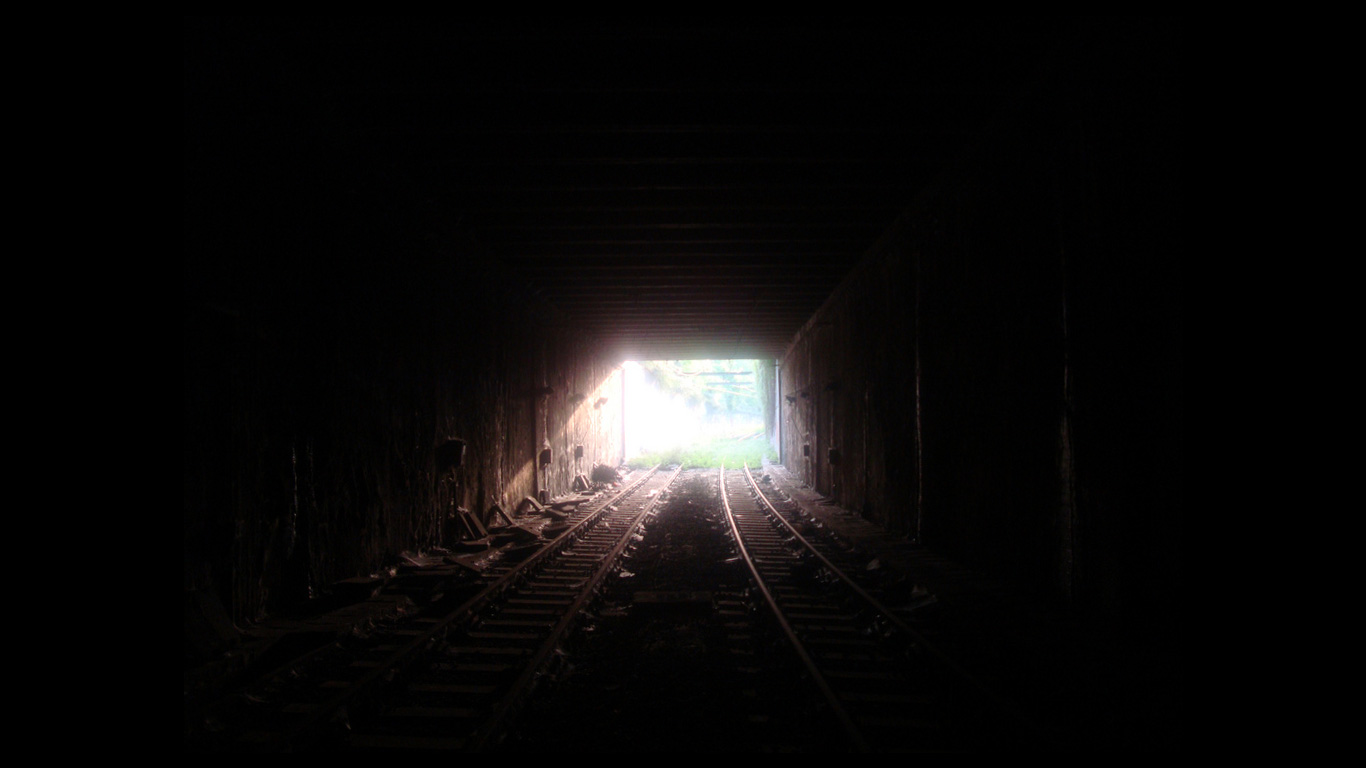
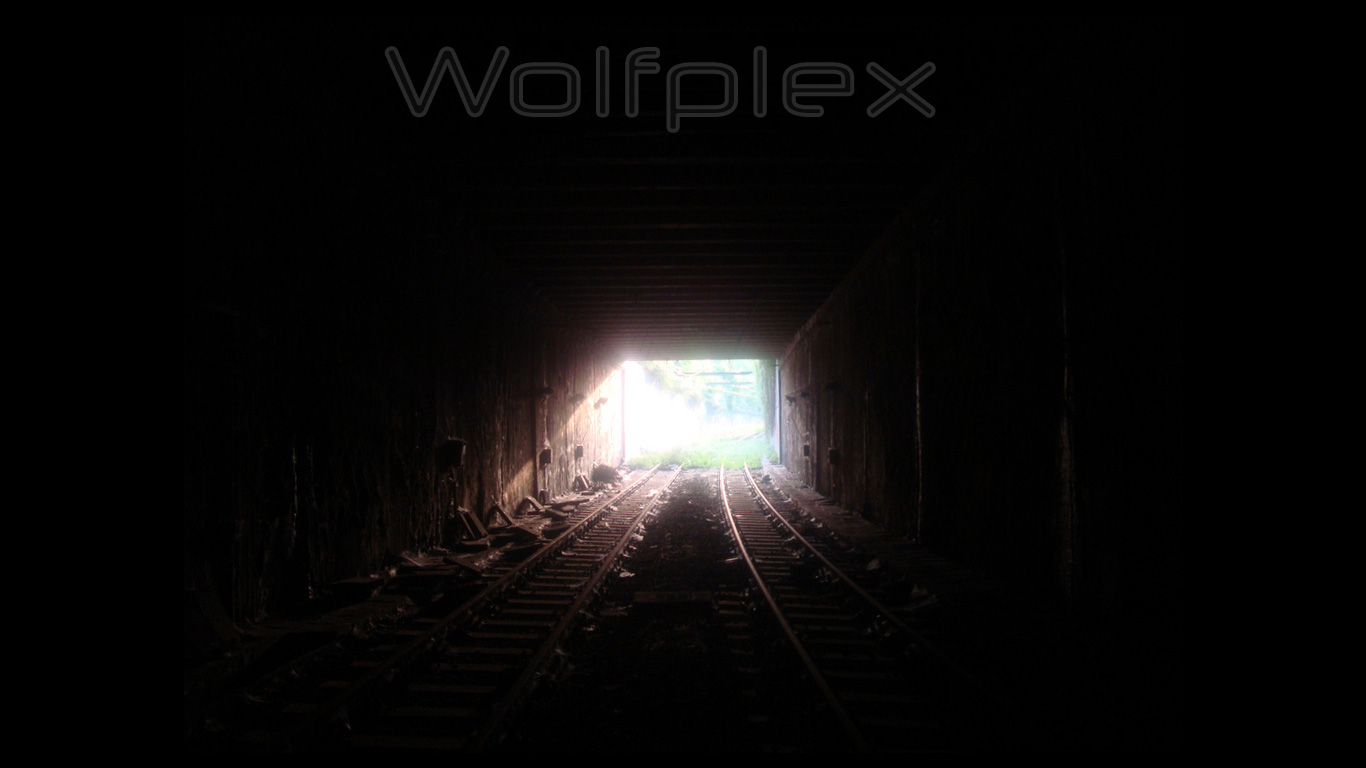
Correctifs suite à la réunion 0x32 :
- Champs mail plus lisible
- Wolfplex en gris sur la cover
- Texte à gauche pour #publicspace

Changed region(s): [[0.2767, 0.0625, 0.7072, 0.1562]]

diff --git a/css/theme/wolfplex.css b/css/theme/wolfplex.css
@@ -57,6 +57,10 @@ body {
 /*********************************************
  * Slides
  *********************************************/
+#welcome {
+    margin-top: 25%;
+}
+
 #stats .container, #what .container {
     height: 520px;
 }
@@ -94,33 +98,37 @@ body {
     color: #354247;
 }
 
+#publicspace {
+    width: 640px;
+}
+
 #colophon {
     font-size-adjust: 0.3;
 }
 
 ul.double {
-  width: 760px;
-  border-top: 1px solid #ccc;
-  border-bottom: 1px solid #ccc;
+    width: 760px;
+    border-top: 1px solid #ccc;
+    border-bottom: 1px solid #ccc;
 }
 
 .double li {
-  float: left;
+    float: left;
+    width: 50%;
 }
-
-.double li { width: 50%; }
 
 input {
     background-color: rgba(0, 0, 0, 0.4);
     border: none;
     color: white;
     font-family: "Open Sans";
-    font-weight: 700;
+    font-weight: 400;
+    font-size: 1em;
 }
 
 #mail {
-    height: 2em;
-    padding: 0.5em;
+    height: 3em;
+    padding: 0 0.5em;
 }
 
 #ok {

diff --git a/index.html b/index.html
@@ -24,8 +24,6 @@
 		<div class="reveal">
 			<div class="slides">
 				<section id="welcome" data-background="img/TunnelMetroFantome.jpg">
-					<h1>Wolfplex<br />Hackerspace</h1>
-                    <p style="height: 9em;">&nbsp;</p>
 					<h3>Créer un hackerspace à Charleroi</h3>
 					<p>
 						<small>Bienvenue dans notre présentation du projet.<br /><a href="http://irc.lc/wolfplex">Discuter en live</a> (<a href="irc://irc.freenode.net/wolfplex">Freenode #wolfplex</a>)</small>
